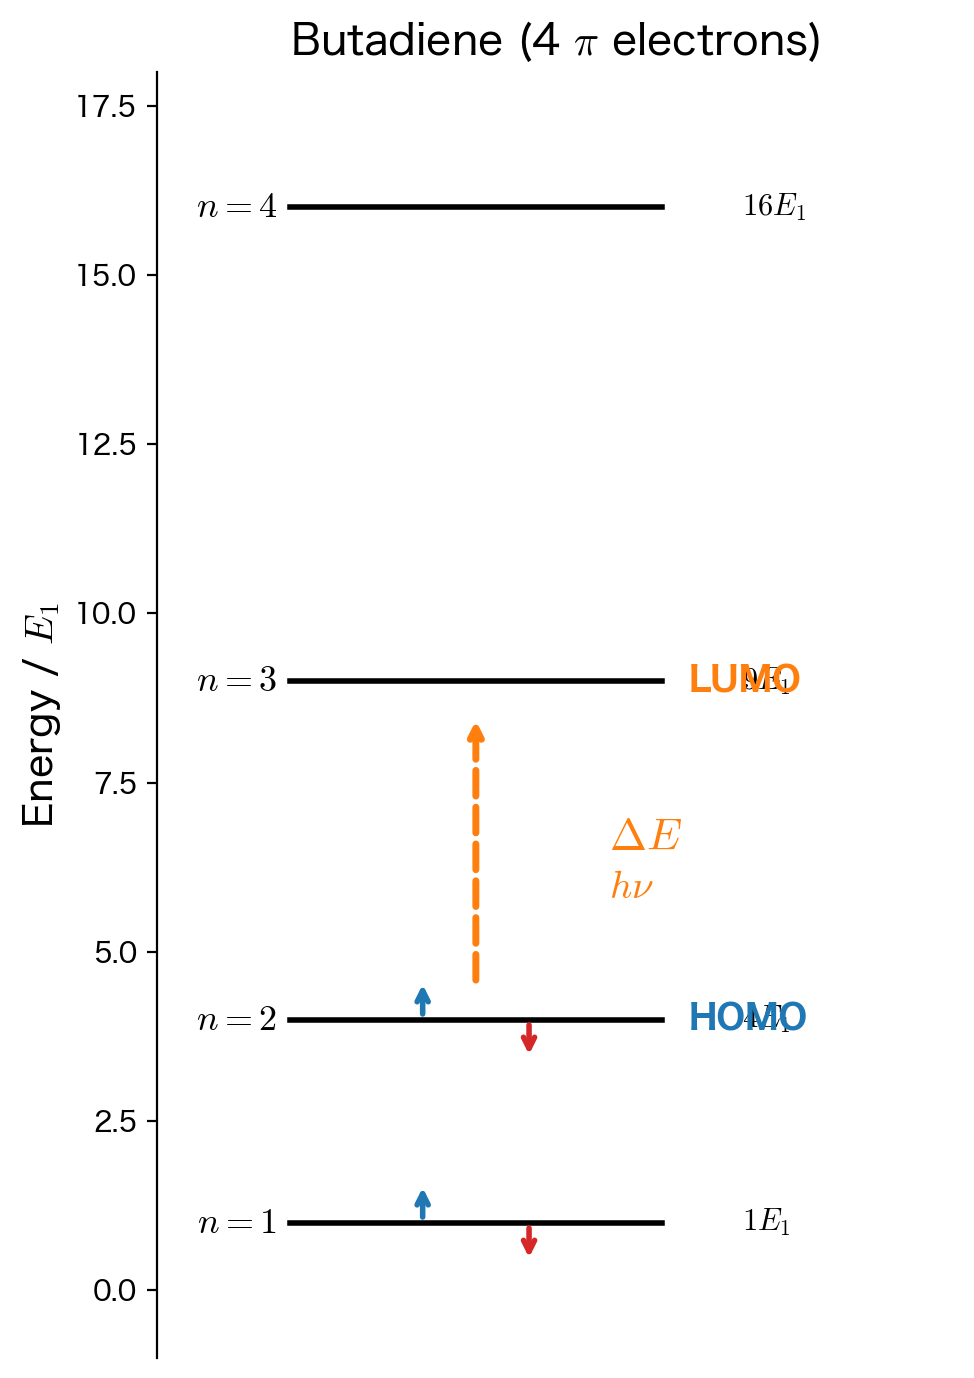
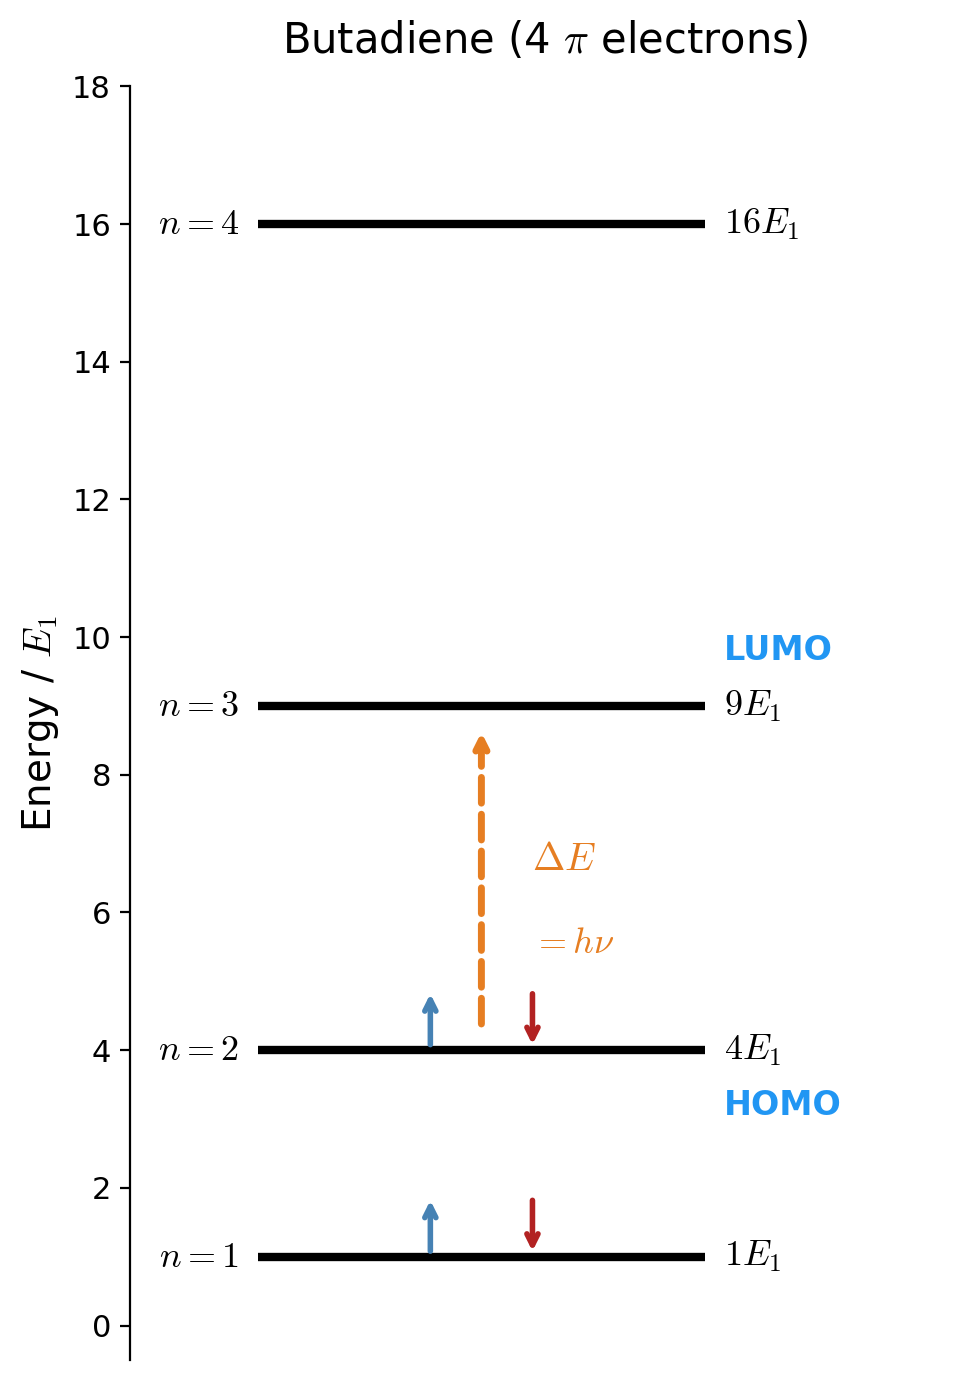
fix: redraw butadiene energy level diagram to avoid text overlap
HOMO/LUMO labels and energy values no longer overlap. Added plot
script for reproducibility.

diff --git a/物理化学6/figures/plot_butadiene.py b/物理化学6/figures/plot_butadiene.py
@@ -1,0 +1,73 @@
+import matplotlib.pyplot as plt
+import matplotlib
+matplotlib.rcParams['mathtext.fontset'] = 'cm'
+
+fig, ax = plt.subplots(figsize=(5, 7))
+
+# Energy levels: n=1 -> 1, n=2 -> 4, n=3 -> 9, n=4 -> 16
+levels = {1: 1, 2: 4, 3: 9, 4: 16}
+x_left = 0.15
+x_right = 0.85
+line_lw = 3
+
+for n, E in levels.items():
+    ax.plot([x_left, x_right], [E, E], 'k-', lw=line_lw, solid_capstyle='butt')
+    # n label on the left
+    ax.text(x_left - 0.03, E, f'$n={n}$', ha='right', va='center', fontsize=13)
+    # Energy label on the right
+    if n == 1:
+        label = r'$1E_1$'
+    else:
+        label = rf'${n**2}E_1$'
+    ax.text(x_right + 0.03, E, label, ha='left', va='center', fontsize=13)
+
+# Electrons: n=1 has 2 electrons, n=2 has 2 electrons
+arrow_kwargs = dict(head_width=0.015, head_length=0.3, lw=1.5)
+# n=1: up arrow and down arrow
+ax.annotate('', xy=(0.42, 1.9), xytext=(0.42, 1.0),
+            arrowprops=dict(arrowstyle='->', color='steelblue', lw=2))
+ax.annotate('', xy=(0.58, 1.0), xytext=(0.58, 1.9),
+            arrowprops=dict(arrowstyle='->', color='firebrick', lw=2))
+
+# n=2: up arrow and down arrow
+ax.annotate('', xy=(0.42, 4.9), xytext=(0.42, 4.0),
+            arrowprops=dict(arrowstyle='->', color='steelblue', lw=2))
+ax.annotate('', xy=(0.58, 4.0), xytext=(0.58, 4.9),
+            arrowprops=dict(arrowstyle='->', color='firebrick', lw=2))
+
+# HOMO label - below the n=2 level to avoid overlap
+ax.text(x_right + 0.03, 4 - 0.8, 'HOMO', ha='left', va='center',
+        fontsize=12, fontweight='bold', color='#2196F3')
+
+# LUMO label - above the n=3 level to avoid overlap
+ax.text(x_right + 0.03, 9 + 0.8, 'LUMO', ha='left', va='center',
+        fontsize=12, fontweight='bold', color='#2196F3')
+
+# Transition arrow (dashed, orange) from HOMO to LUMO
+mid_x = 0.50
+ax.annotate('', xy=(mid_x, 8.7), xytext=(mid_x, 4.3),
+            arrowprops=dict(arrowstyle='->', color='#E67E22', lw=2.5,
+                            linestyle='dashed'))
+ax.text(mid_x + 0.08, 6.5, r'$\Delta E$', ha='left', va='bottom',
+        fontsize=14, color='#E67E22', fontweight='bold')
+ax.text(mid_x + 0.08, 5.8, r'$= h\nu$', ha='left', va='top',
+        fontsize=13, color='#E67E22')
+
+# Axes
+ax.set_ylabel(r'Energy / $E_1$', fontsize=14)
+ax.set_xlim(-0.05, 1.25)
+ax.set_ylim(-0.5, 18)
+ax.set_yticks([0, 2, 4, 6, 8, 10, 12, 14, 16, 18])
+ax.set_xticks([])
+ax.spines['top'].set_visible(False)
+ax.spines['right'].set_visible(False)
+ax.spines['bottom'].set_visible(False)
+ax.tick_params(axis='y', labelsize=11)
+
+ax.set_title(r'Butadiene (4 $\pi$ electrons)', fontsize=15, pad=12)
+
+plt.tight_layout()
+plt.savefig('/Users/yuan/grad-exam-physics-chem/物理化学6/figures/butadiene_levels.png',
+            dpi=200, bbox_inches='tight', facecolor='white')
+plt.close()
+print("Done")
